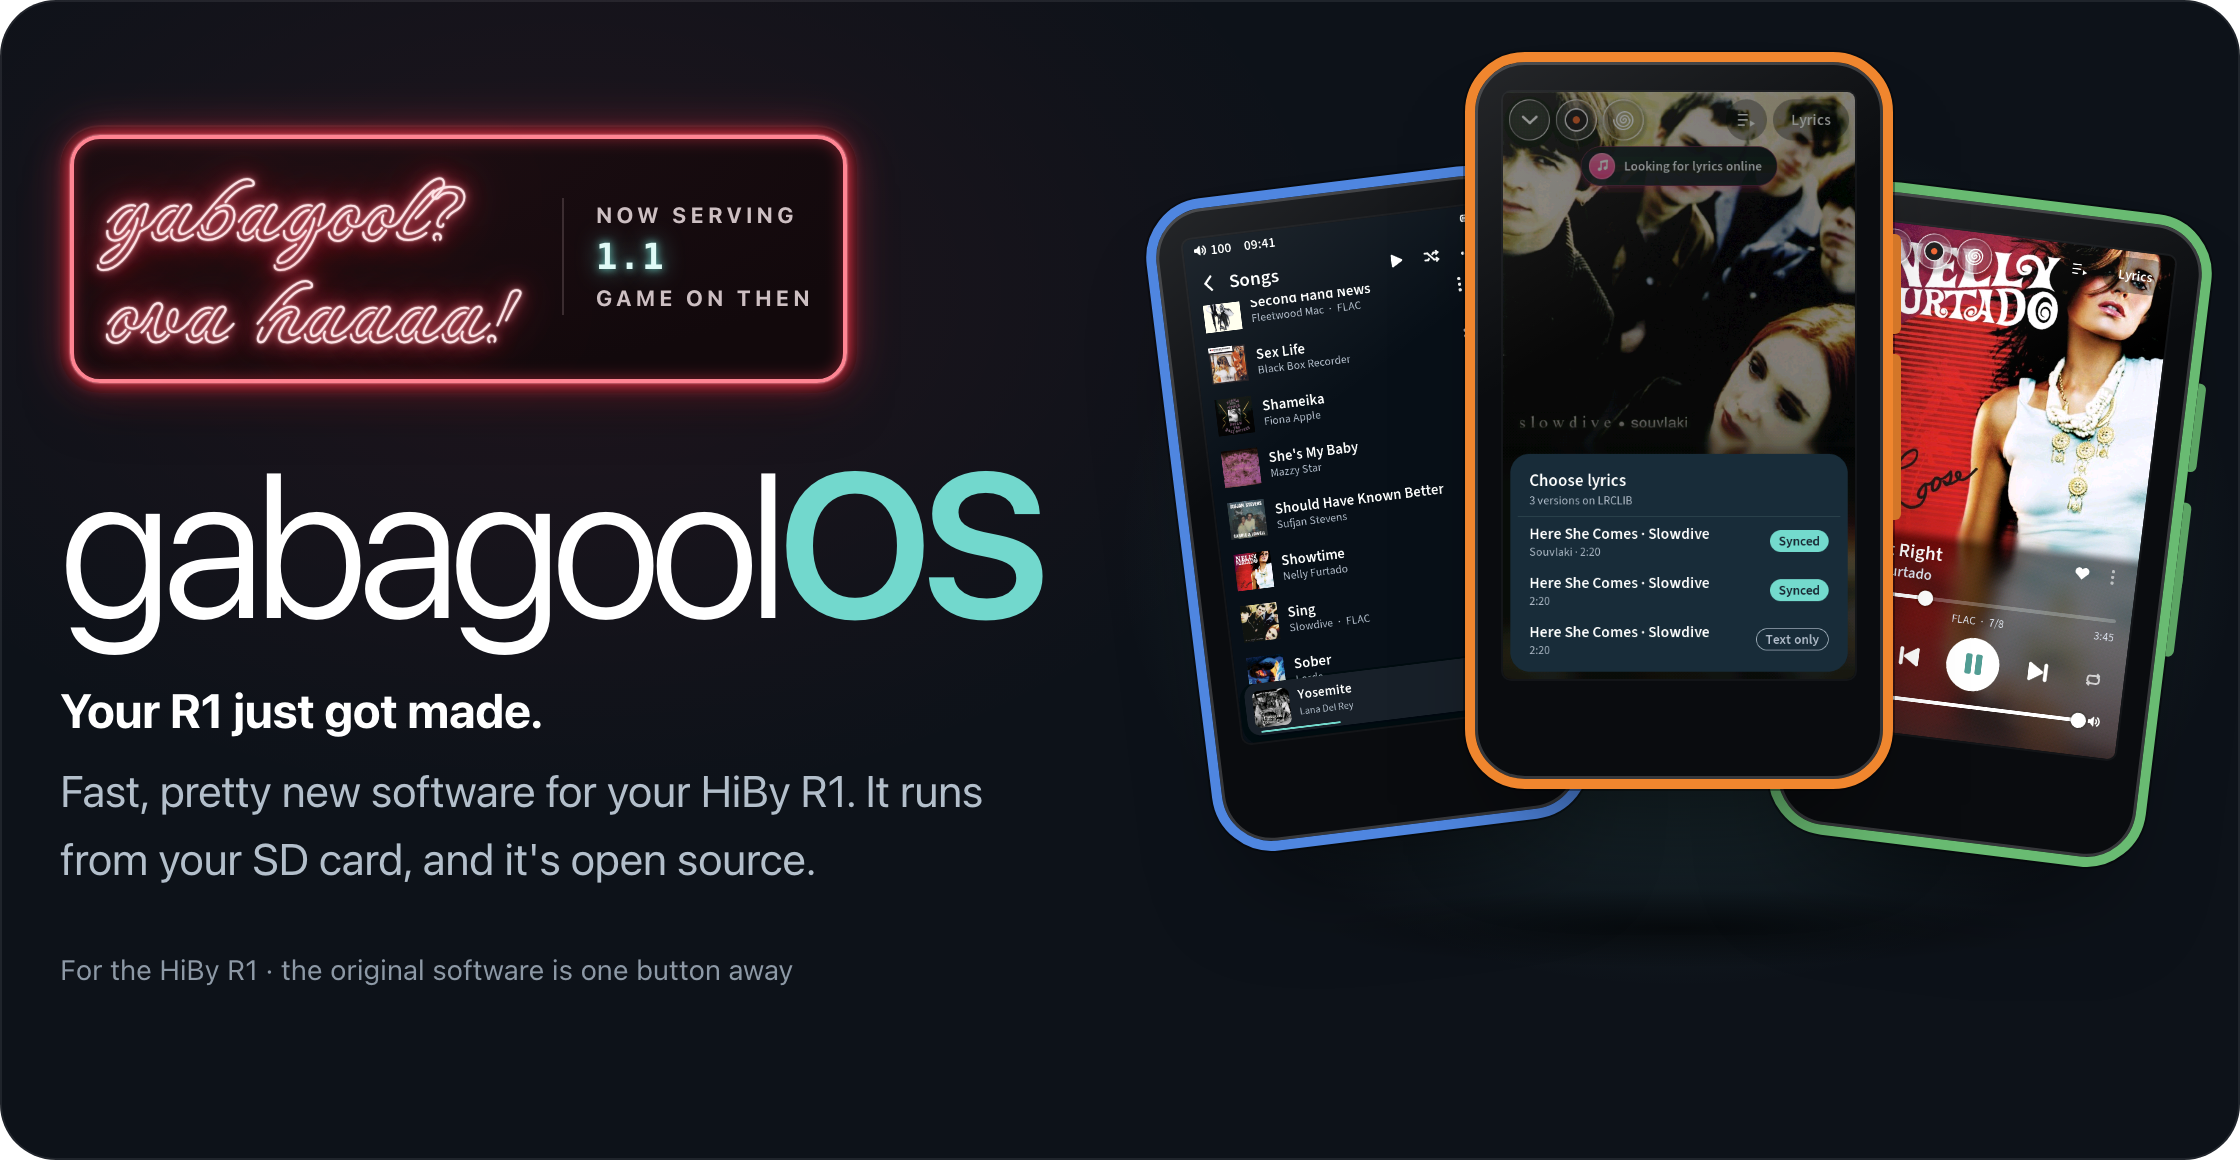
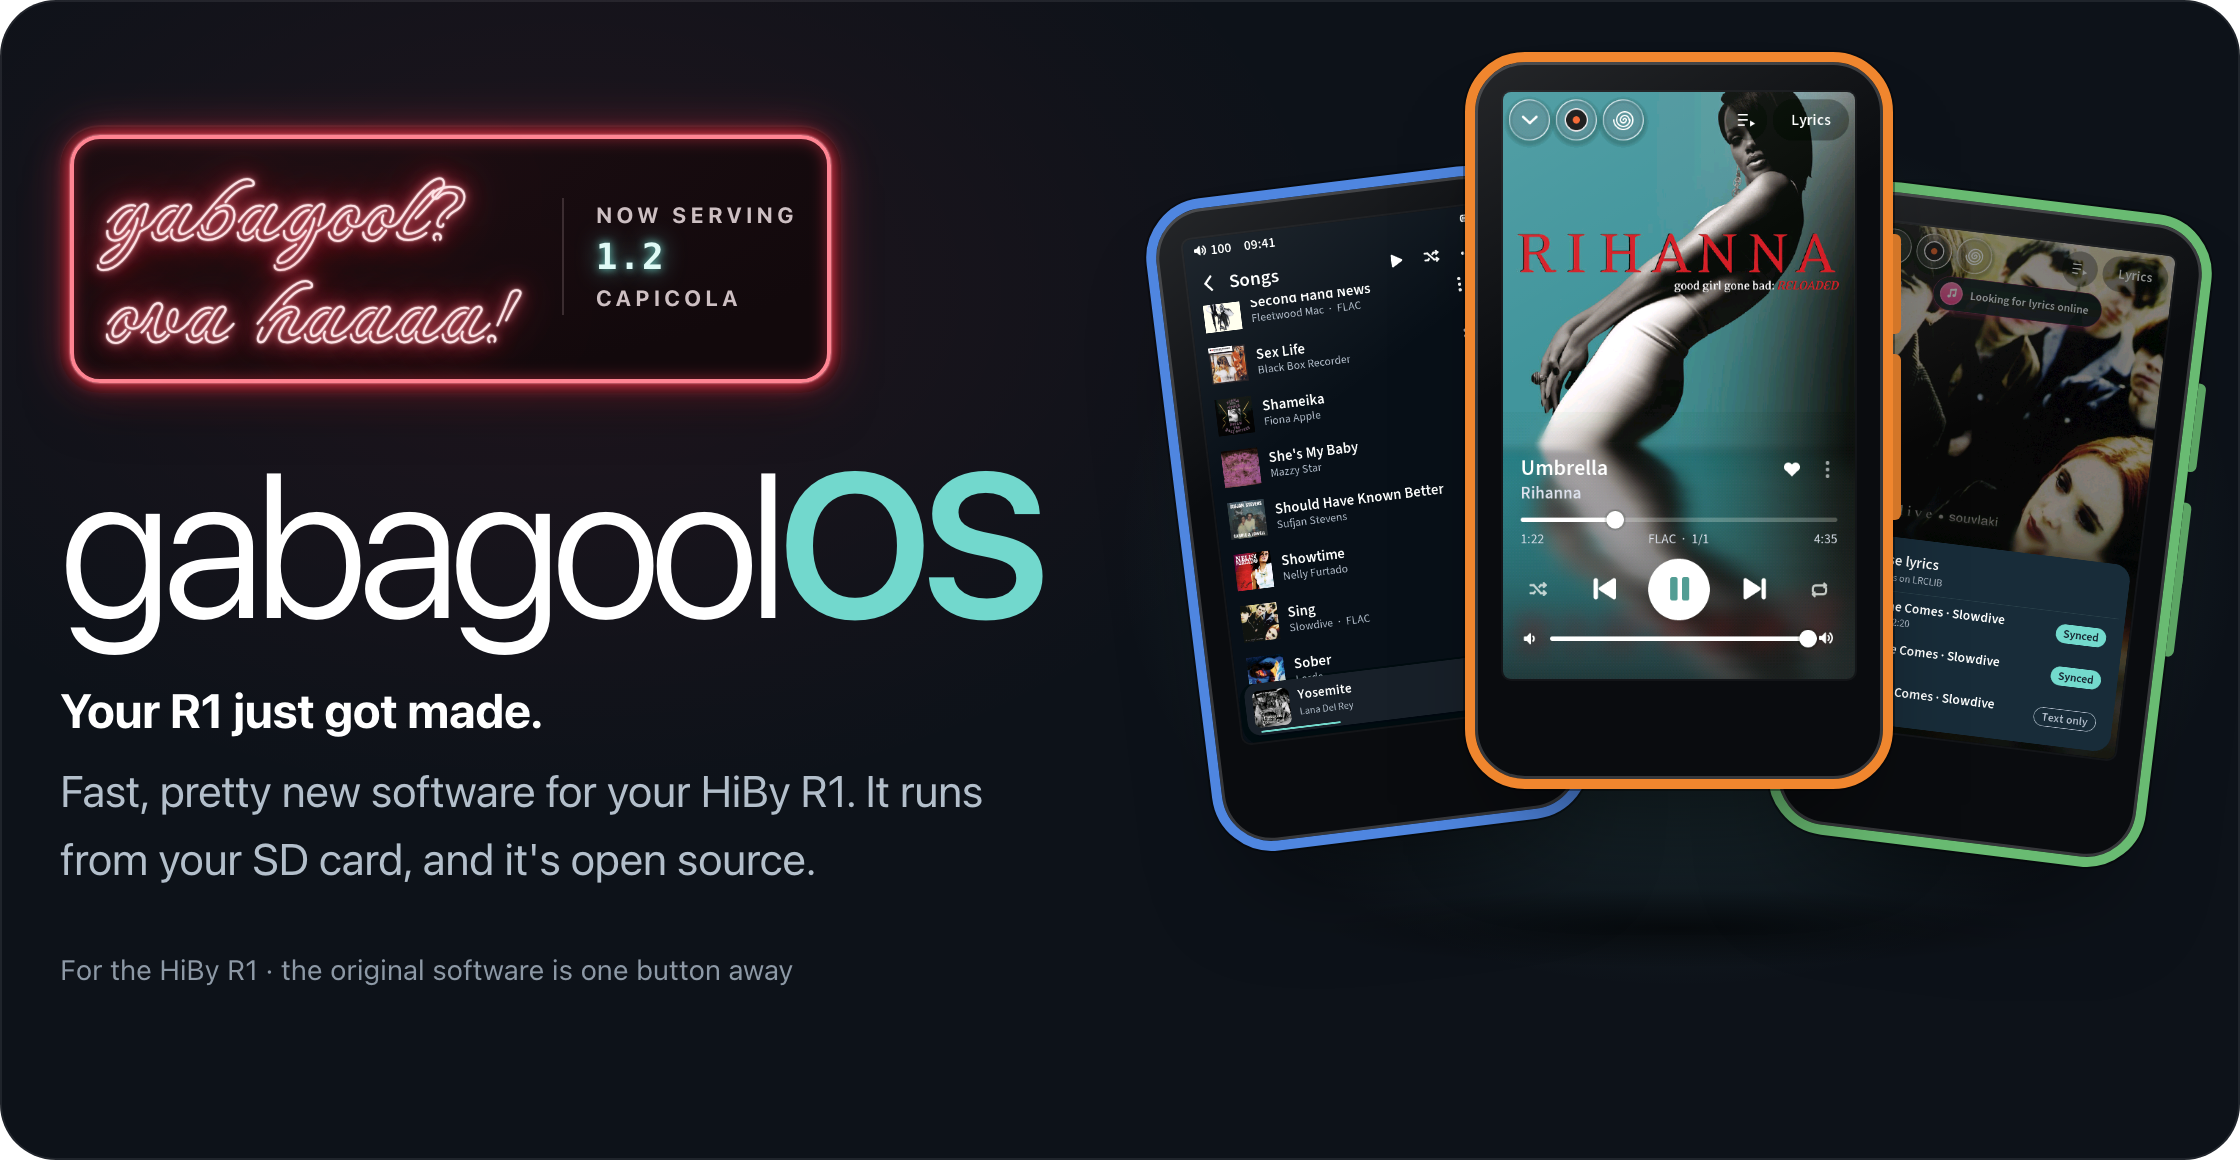
Front page: the 1.2 sign, and Umbrella by Rihanna playing in front

Changed region(s): [[0.6562, 0.0621, 0.9688, 0.6517], [0.2812, 0.0931, 0.4062, 0.3414]]

diff --git a/README.md b/README.md
@@ -5,7 +5,7 @@
 <a href="https://github.com/BlueDreams666/gabagoolOS/releases/latest">
 <picture>
   <source media="(prefers-color-scheme: dark)" srcset="assets/hero-dark.png">
-  <img src="assets/hero-light.png" width="880" alt="gabagoolOS. A neon sign reads: gabagool? ova haaaa! Your R1 just got made: fast, pretty new software for your HiBy R1. It runs from your SD card, and it's open source. Beside it, three R1s showing the Songs list, the lyrics picker for Here She Comes by Slowdive, and Now Playing with Say It Right by Nelly Furtado.">
+  <img src="assets/hero-light.png" width="880" alt="gabagoolOS 1.2, Capicola. A neon sign reads: gabagool? ova haaaa! Your R1 just got made: fast, pretty new software for your HiBy R1. It runs from your SD card, and it's open source. Beside it, three R1s: the Songs list, Now Playing with Umbrella by Rihanna, and the lyrics picker for Here She Comes by Slowdive.">
 </picture>
 </a>
 
